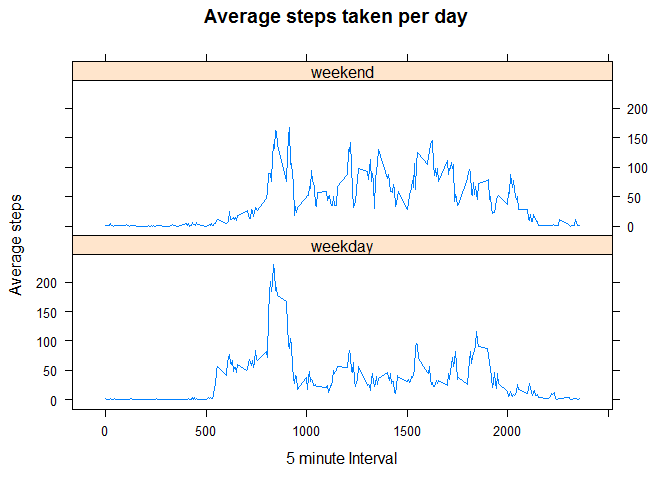
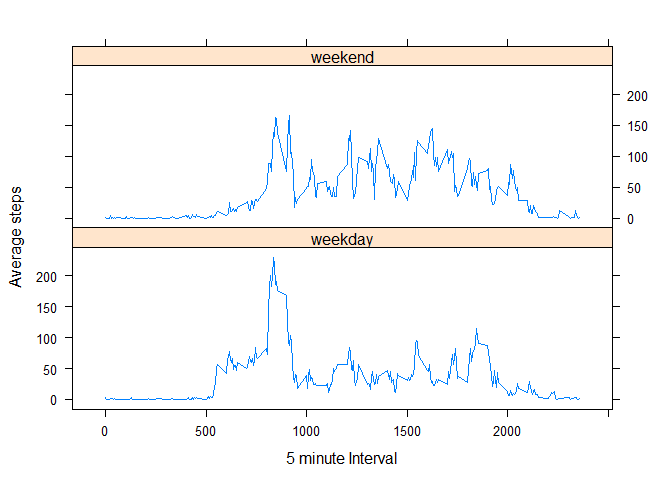
Version 2
Some formatting cleanup

diff --git a/PA1_template.html b/PA1_template.html
@@ -250,7 +250,8 @@ plot(avg_by_interval$interval, avg_by_interval$avgSteps,
 
[1 lines of base64/hex data omitted]
 
-<pre><code class="r">##Which 5-minute interval, on average across all the days in the dataset, contains the maximum number of steps?
+<pre><code class="r">## Which 5-minute interval, on average across all the days in the dataset,
+## contains the maximum number of steps?
 avg_by_interval[which.max(avg_by_interval$avgSteps),]
 </code></pre>
 
@@ -262,7 +263,8 @@ avg_by_interval[which.max(avg_by_interval$avgSteps),]
 
 <p>Note that there are a number of days/intervals where there are missing values (coded as NA). The presence of missing days may introduce bias into some calculations or summaries of the data.</p>
 
-<pre><code class="r">## Calculate and report the total number of missing values in the dataset (i.e. the total number of rows with NAs)
+<pre><code class="r">## Calculate and report the total number of missing values in the dataset 
+## (i.e. the total number of rows with NAs)
 sum(is.na(all_data$steps))
 </code></pre>
 
@@ -321,10 +323,14 @@ Conclusion: There is minimal impact on replacing the NAs with the 5-minute inter
 <pre><code class="r">## Create a new factor variable in the dataset with two levels - &quot;weekday&quot; and &quot;weekend&quot; indicating 
 ## whether a given date is a weekday or weekend day.
 all_data_no_NA&lt;-transform(all_data_no_NA, weekdaytxt=(weekdays(date)))
-all_data_no_NA&lt;-transform(all_data_no_NA, weekday=(ifelse (weekdays(date) %in% c(&#39;Sunday&#39;, &#39;Saturday&#39;), &#39;weekend&#39;, &#39;weekday&#39;)))
+all_data_no_NA&lt;-transform(all_data_no_NA, 
+                  weekday=(ifelse (weekdays(date) %in% c(&#39;Sunday&#39;, &#39;Saturday&#39;), 
+                 &#39;weekend&#39;, &#39;weekday&#39;)))
 all_data_no_NA$weekday&lt;-as.factor(all_data_no_NA$weekday)
 
-## Make a panel plot containing a time series plot (i.e. type = &quot;l&quot;) of the 5-minute interval (x-axis) ## and the average number of steps taken, averaged across all weekday days or weekend days (y-axis).
+## Make a panel plot containing a time series plot (i.e. type = &quot;l&quot;) of the 
+## 5-minute interval (x-axis) ## and the average number of steps taken, 
+## averaged across all weekday days or weekend days (y-axis).
 avg_by_interval&lt;-aggregate(steps~interval+weekday, data=all_data_no_NA, mean)
 library(lattice)
 xyplot(steps ~interval | weekday, 
@@ -332,11 +338,10 @@ xyplot(steps ~interval | weekday,
        layout = c(1,2),
        type = &quot;l&quot;, 
        xlab=&quot;5 minute Interval&quot;, ylab=&quot;Average steps&quot;, 
-       main=&quot;Average steps taken per day&quot;
        )
 </code></pre>
 
[2 lines of base64/hex data omitted]
 
 </body>
 

diff --git a/PA1_template.md b/PA1_template.md
@@ -68,7 +68,8 @@ plot(avg_by_interval$interval, avg_by_interval$avgSteps,
 ![plot of chunk unnamed-chunk-3](figure/unnamed-chunk-3.png) 
 
 ```r
-##Which 5-minute interval, on average across all the days in the dataset, contains the maximum number of steps?
+## Which 5-minute interval, on average across all the days in the dataset,
+## contains the maximum number of steps?
 avg_by_interval[which.max(avg_by_interval$avgSteps),]
 ```
 
@@ -82,7 +83,8 @@ avg_by_interval[which.max(avg_by_interval$avgSteps),]
 Note that there are a number of days/intervals where there are missing values (coded as NA). The presence of missing days may introduce bias into some calculations or summaries of the data.
 
 ```r
-## Calculate and report the total number of missing values in the dataset (i.e. the total number of rows with NAs)
+## Calculate and report the total number of missing values in the dataset 
+## (i.e. the total number of rows with NAs)
 sum(is.na(all_data$steps))
 ```
 
@@ -155,10 +157,14 @@ Conclusion: There is minimal impact on replacing the NAs with the 5-minute inter
 ## Create a new factor variable in the dataset with two levels - "weekday" and "weekend" indicating 
 ## whether a given date is a weekday or weekend day.
 all_data_no_NA<-transform(all_data_no_NA, weekdaytxt=(weekdays(date)))
-all_data_no_NA<-transform(all_data_no_NA, weekday=(ifelse (weekdays(date) %in% c('Sunday', 'Saturday'), 'weekend', 'weekday')))
+all_data_no_NA<-transform(all_data_no_NA, 
+                  weekday=(ifelse (weekdays(date) %in% c('Sunday', 'Saturday'), 
+                 'weekend', 'weekday')))
 all_data_no_NA$weekday<-as.factor(all_data_no_NA$weekday)
 
-## Make a panel plot containing a time series plot (i.e. type = "l") of the 5-minute interval (x-axis) ## and the average number of steps taken, averaged across all weekday days or weekend days (y-axis).
+## Make a panel plot containing a time series plot (i.e. type = "l") of the 
+## 5-minute interval (x-axis) ## and the average number of steps taken, 
+## averaged across all weekday days or weekend days (y-axis).
 avg_by_interval<-aggregate(steps~interval+weekday, data=all_data_no_NA, mean)
 library(lattice)
 xyplot(steps ~interval | weekday, 
@@ -166,7 +172,6 @@ xyplot(steps ~interval | weekday,
        layout = c(1,2),
        type = "l", 
        xlab="5 minute Interval", ylab="Average steps", 
-       main="Average steps taken per day"
        )
 ```
 
